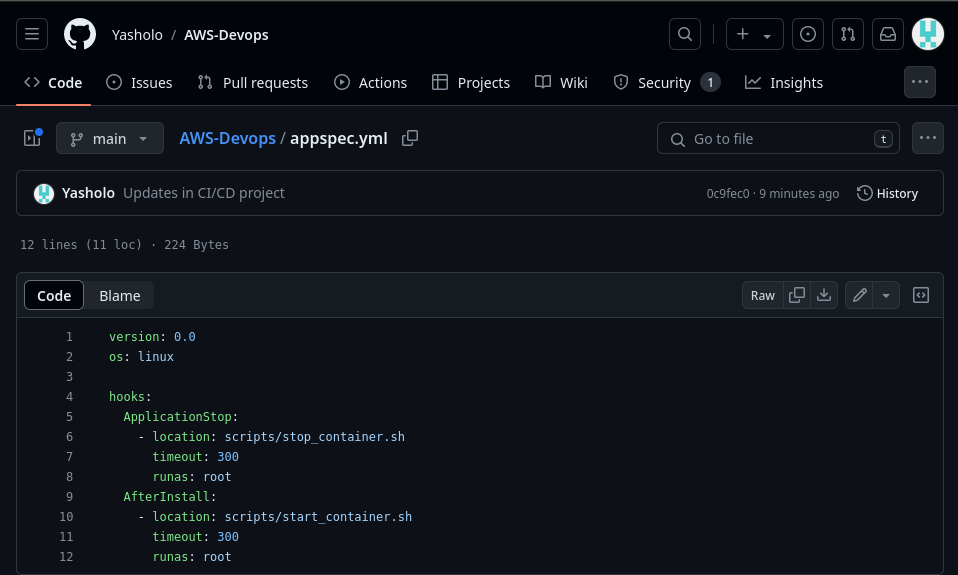
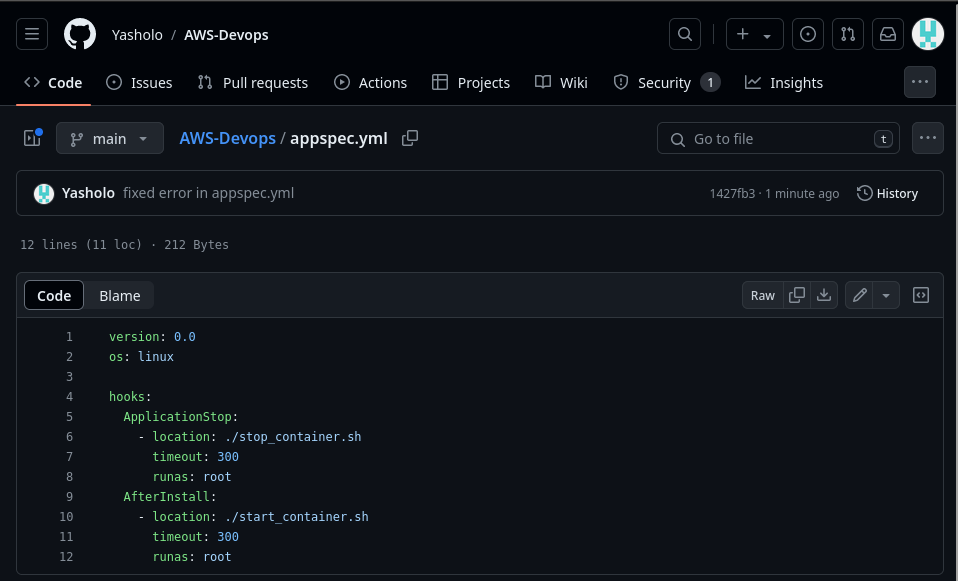
fixed errors

diff --git a/AWS-Projects/AWS-Continuous-Integration-Demo/README.md b/AWS-Projects/AWS-Continuous-Integration-Demo/README.md
@@ -179,11 +179,19 @@ The reason for this is that we need one "appspec.yaml" file, which if you look a
 
 - All you need to do is create an appspec.yml file at the root of the repository and two bash scripts (start_container.sh and stop_container.sh). 
 <img src="readme/deployments6.png" />
+(make sure to put the start_container.sh and stop_container.sh in new scripts repository. )
 
 - You can refer to these files to get an idea about what we need to do in these scripts. (We are basically pulling our docker image from the docker hub which we created in our codebuild project, and the we are running the container in daemon mode.)
 <img src="readme/deployments7.png" />
 <img src="readme/deployments8.png" />
 <img src="readme/deployments9.png" />
+
+- Before we rerun our deployment, make sure you have docker installed on your ec2 instance(sudo apt install docker.io -y), we can put that command in the appspec.yml file aswell but lets do it manually for now.
+
+- Now we are all set! Let's retry new deployment with a new(latest) commit ID and hit "Create deployment".
+<img src="readme/deployments10.png" />
+
+
 
 
 ## Create an AWS CodePipeline
